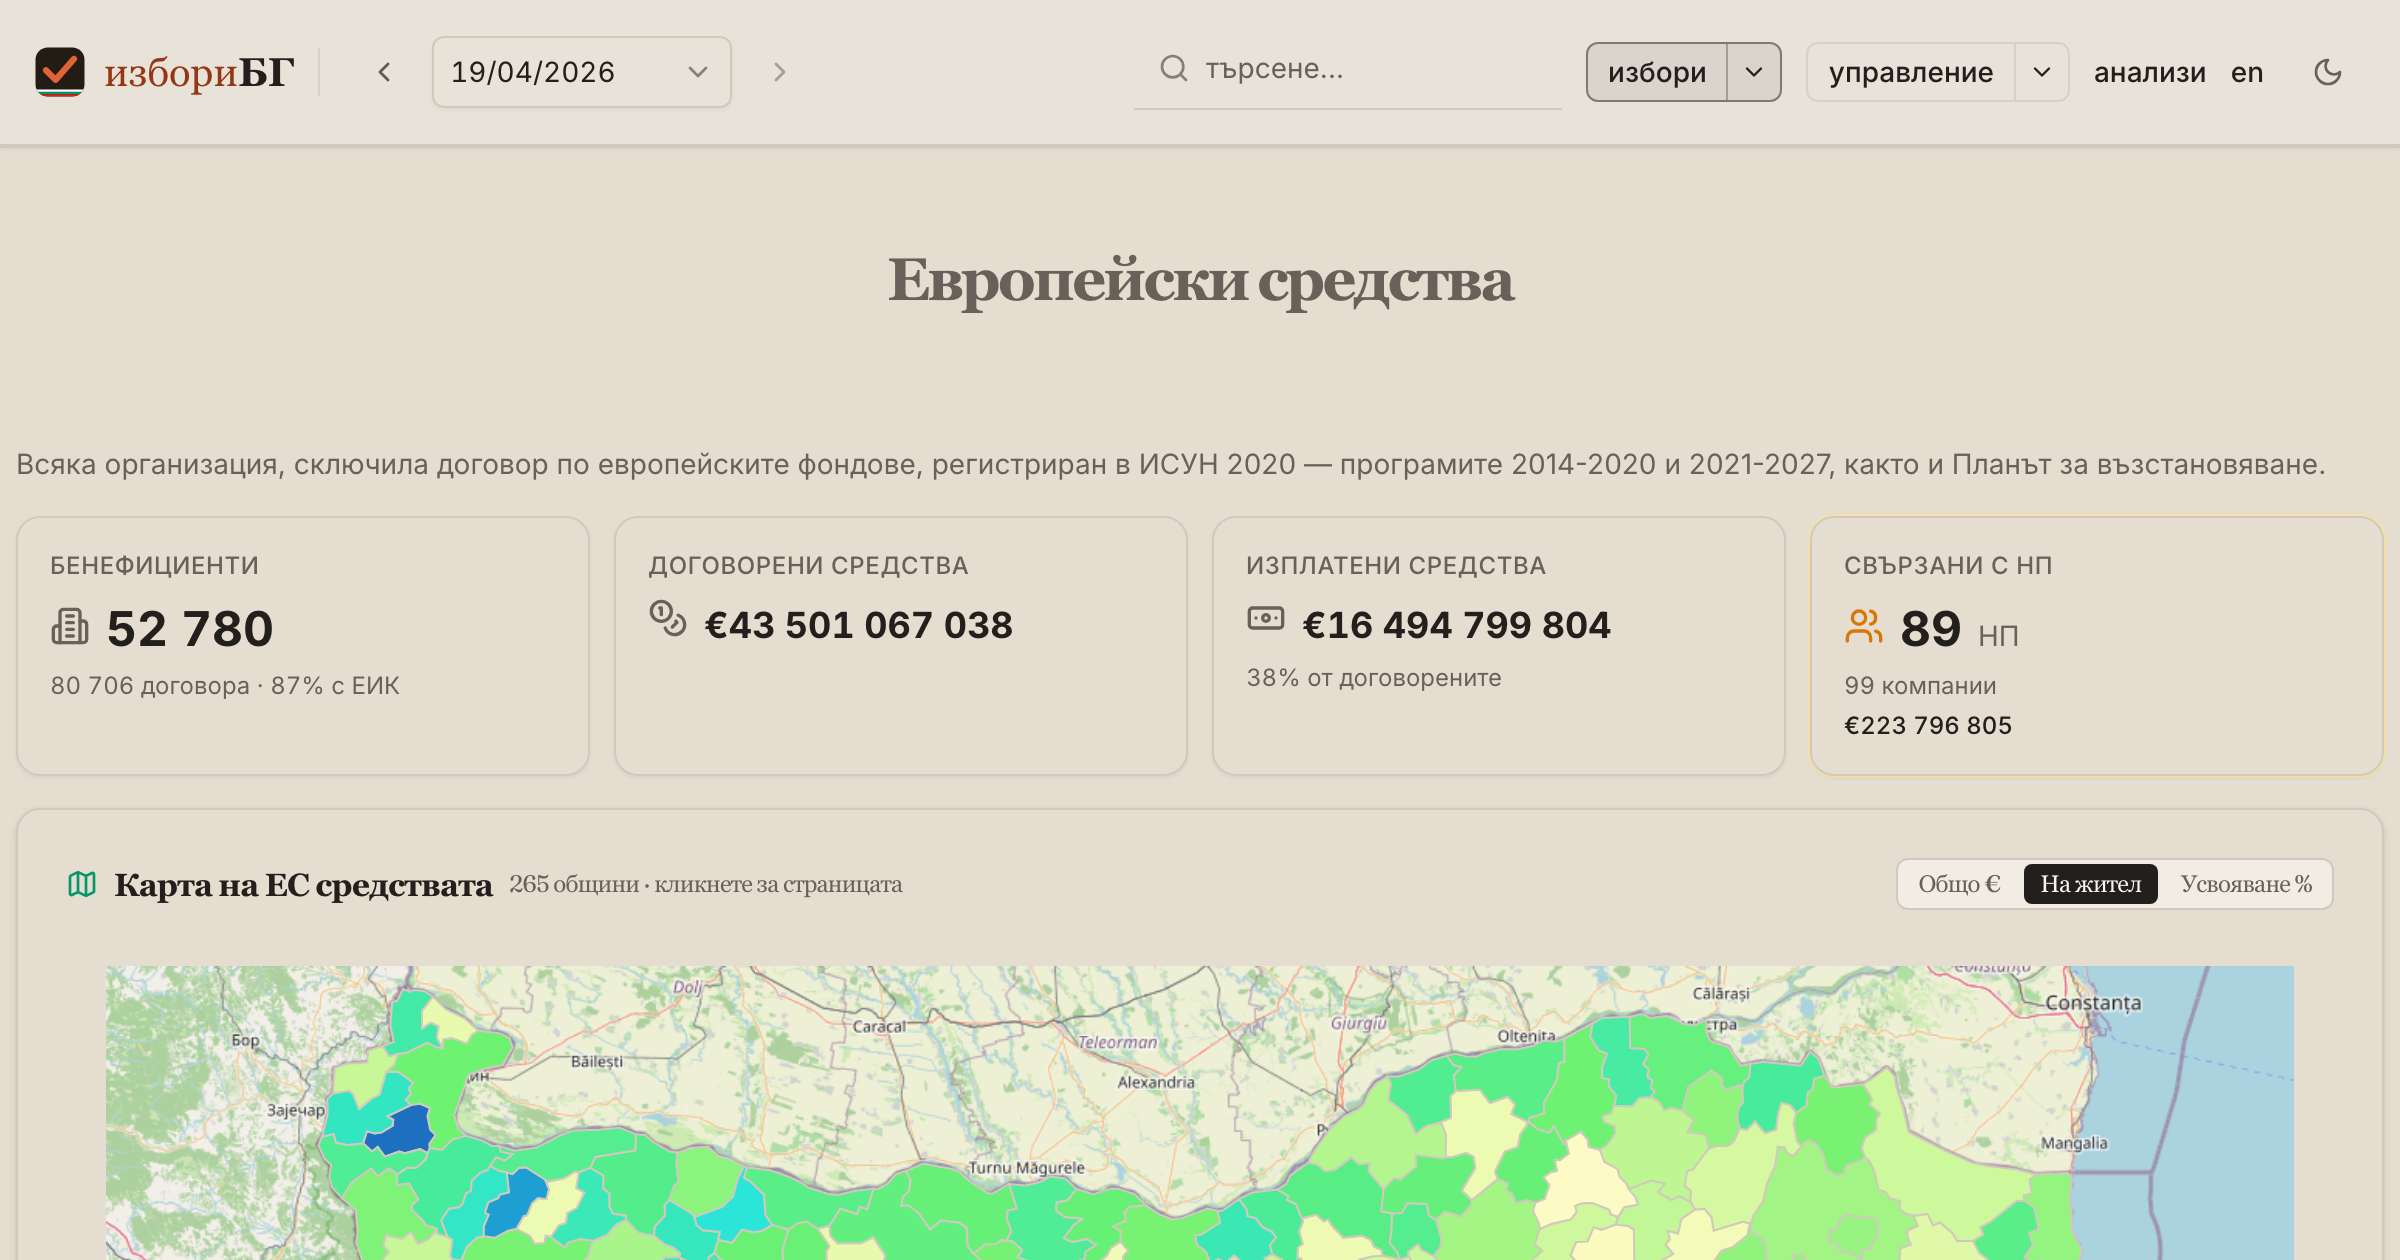
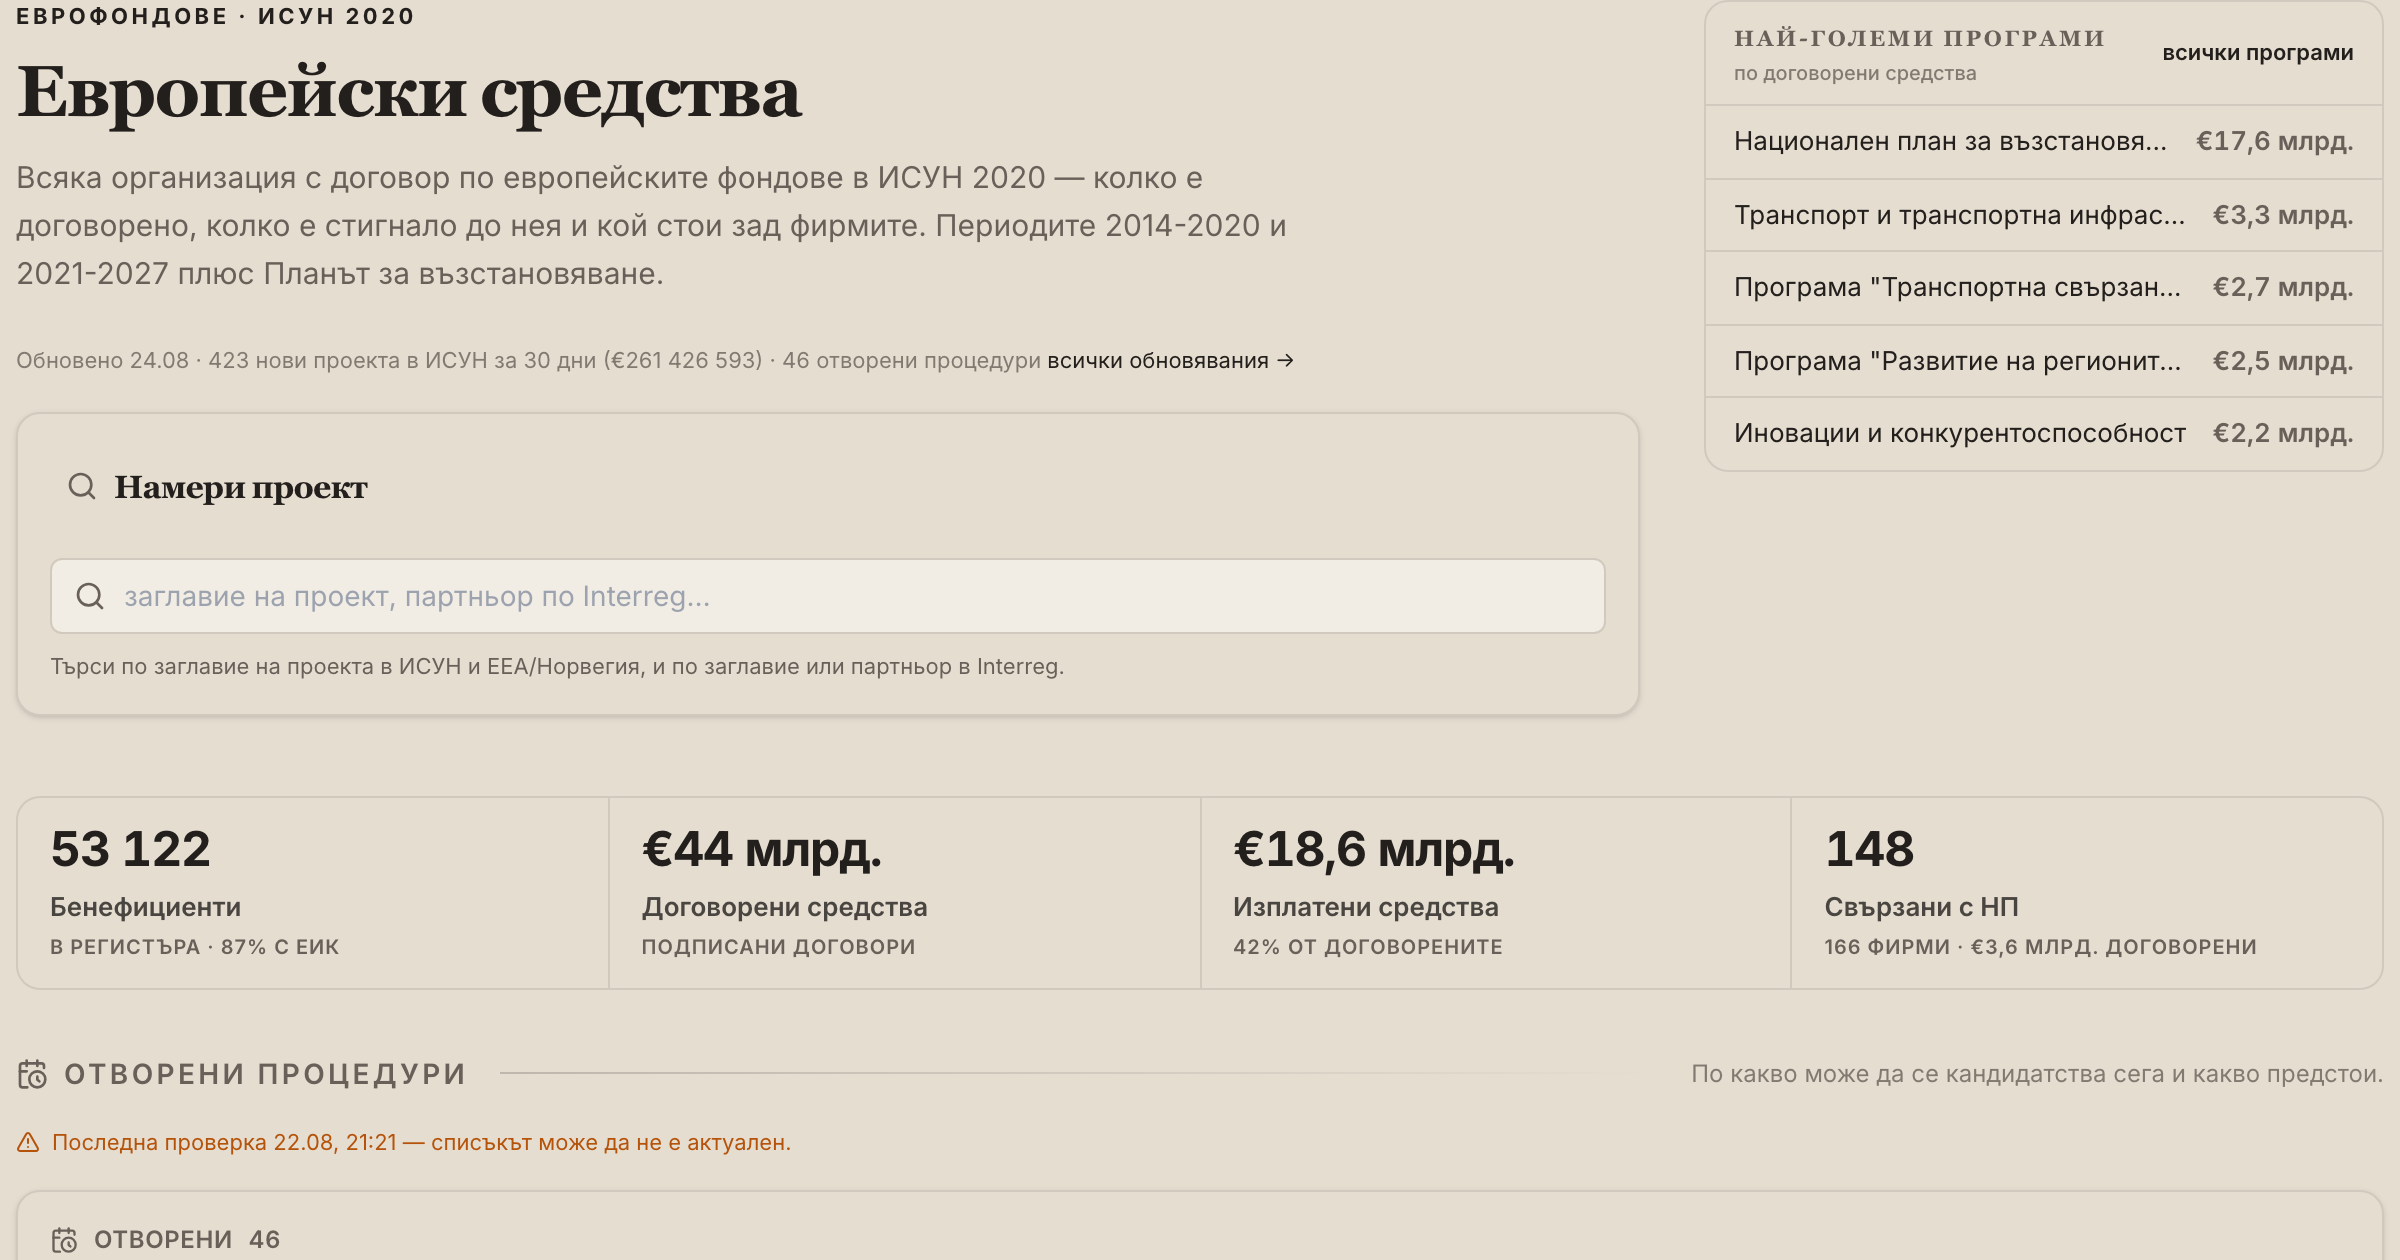
funds share card: one producer, anchored on the head, with the output gated

diff --git a/scripts/og/capture-screens.ts b/scripts/og/capture-screens.ts
@@ -292,6 +292,52 @@ const captures: Capture[] = [
     extraCss: "[data-og-chrome]{display:none!important;}",
   },
   {
+    slug: "funds",
+    routePath: "funds",
+    // MOVED HERE from scripts/og/screenshot_funds.ts, which is why this entry exists at all.
+    // That script clips {x:0, y:0} and hides no chrome, so the card it produced led with the
+    // nav bar, the election picker and the search box, and the page began below them. It had
+    // also not been re-shot since 2026-05-27, so it depicted a layout this module no longer
+    // has — a centred muted title, a buried StatCard strip and a choropleth — and every
+    // figure on it was stale: 52 780 beneficiaries against 53 122, €16.49bn paid against
+    // €18.58bn (11% low) and 89 MPs against 148 (40% low).
+    //
+    // `capture-screens.ts` drops the site chrome and anchors the clip, which is the whole
+    // difference. Same shape as its three sibling hubs: anchor the head, wait on the BAND's
+    // figures (the head mounts before the payload, so waiting on the container shoots a
+    // skeleton), clip at OG_CLIP_VIEWPORT.
+    // ⚠ BOTH KPI SOURCES, not just one — and /funds is the only one of the four hubs that
+    // needs this. `kpisFor` builds its band from TWO independent queries: `useFundsIndex`
+    // feeds cells 1 and 4, `useFundsHubStats` cells 2, 3 and every row of the aside. HubHead
+    // renders the real band as soon as EITHER lands, and both hooks document `null` as a
+    // legitimate ANSWER rather than an error, so a bare `.tabular-nums` is satisfied by a
+    // TWO-cell band — and the runner then overwrites a good card with a half-empty one and
+    // reports success. Measured: with `fund-payload?kind=index` nulled the bare selector
+    // resolved and a 2-cell card was written; this one times out, the capture fails, and the
+    // previous card survives, which is the right failure. The siblings are all-or-nothing
+    // from one hook, so they do not need the `:has()`.
+    //
+    // /funds/political is cell 4's destination (index); /funds/absorption is cell 3's
+    // (hubStats). Requiring one from each source is what makes the band provably whole.
+    waitFor:
+      '[data-hub-head]:has(a[href*="/funds/political"]):has(a[href*="/funds/absorption"]) .tabular-nums',
+    anchor: "[data-hub-head]",
+    viewport: OG_CLIP_VIEWPORT,
+    settleMs: 3000,
+    // ⚠ RE-SHOOT THIS AFTER AN OPEN-CALLS CRAWL. The head is ~495 px and the clip is 630, so
+    // ~135 px of whatever follows it is in frame — here the OpenCallsTile, whose first line is
+    // a TIMESTAMPED freshness notice. When the crawl is behind, that line turns amber and
+    // reads „Последна проверка <time> — списъкът може да не е актуален", and a card shot in
+    // that state carries the warning for as long as the card is served. It is true of the live
+    // page and false of a permanent artifact, which is the whole failure mode this file keeps
+    // finding.
+    //
+    // Suppressing it was considered and rejected twice over: hiding the notice alone leaves
+    // „ОТВОРЕНИ 46" with no freshness qualifier, which is exactly what OpenCallsTile's own
+    // invariant 3 forbids; and hiding the tile only pulls the next one into the same 135 px.
+    // Something always fills a short anchor's remainder, so the fix is a fresh crawl, not CSS.
+  },
+  {
     slug: "parliament",
     routePath: "parliament",
     // ANCHOR ON THE HEAD, not the tile grid. §5.3's rule for a hub: the head IS the page's
@@ -1165,6 +1211,9 @@ const captures: Capture[] = [
   // ---------------------------------------------------------------------------
 
   // --- /funds sub-pages -------------------------------------------------------
+  // (the /funds HUB card itself is the `funds` entry near the top of this table, beside its
+  //  three sibling hubs — they share a framing rule, which is a stronger grouping than the
+  //  module clustering this block follows.)
   {
     slug: "funds-places",
     routePath: "funds/places",

diff --git a/scripts/prerender/ogAndSitemapCoverage.test.ts b/scripts/prerender/ogAndSitemapCoverage.test.ts
@@ -840,11 +840,7 @@ describe("a hub's og capture anchors on its head", () => {
 
   /** Hubs whose card does not yet frame the head, with the reason. A real debt, named so the
    *  list shrinks rather than the rule. */
-  const NOT_YET: Record<string, string> = {
-    funds:
-      "produced by scripts/og/screenshot_funds.ts, which clips {0,0} and hides no chrome — " +
-      "needs moving into capture-screens.ts before it can anchor on anything",
-  };
+  const NOT_YET: Record<string, string> = {};
 
   /** One capture entry's text, by slug. */
   const entryFor = (slug: string): string | null => {
@@ -877,6 +873,7 @@ describe("a hub's og capture anchors on its head", () => {
   });
 
   it("a hub's capture clips at OG_CLIP_VIEWPORT, so the card is not silently shrunk", () => {
+    const checked: string[] = [];
     // Playwright CLAMPS the clip to the viewport, so a width below OG_W (1200) emits a
     // smaller card with nothing failing — measured, a hand-picked 1180 gave 2360×1260 where
     // the corpus norm is 2400, and two of these three had been 2400 the day before.
@@ -887,6 +884,39 @@ describe("a hub's og capture anchors on its head", () => {
         /viewport:\s*OG_CLIP_VIEWPORT/.test(entry),
         `${slug}: uses a hand-written viewport instead of OG_CLIP_VIEWPORT`,
       ).toBe(true);
+      checked.push(slug);
+    }
+    // The same floor its sibling above carries. Without it, an exemption list that grew to
+    // cover every hub would leave this clause asserting nothing while still reading green —
+    // and `NOT_YET` is empty today, which is exactly when the floor is free to add.
+    expect(checked.length, "no hub viewport was checked").toBeGreaterThan(1);
+  });
+
+  it("every hub card is the corpus's size, read from the PNG itself", () => {
+    // ⚠ THE CLAUSES ABOVE READ THE CONFIG; this one reads the OUTPUT. That gap shipped a
+    // defect earlier the same day: a hand-picked `viewport.width: 1180` is below OG_W (1200),
+    // Playwright CLAMPS the clip to the viewport, and three cards were written at 2360×1260
+    // against a corpus norm of 2400 — with the config looking deliberate and every
+    // config-reading assertion green.
+    //
+    // PNG dimensions come from the IHDR chunk: bytes 16-23 of the file, big-endian width then
+    // height. No image library needed, and nothing here decodes pixels — this asserts the
+    // frame, not the picture. Looking at the picture is still a human step (§10).
+    const dims = (rel: string) => {
+      const b = fs.readFileSync(path.join(REPO, rel));
+      return { w: b.readUInt32BE(16), h: b.readUInt32BE(20) };
+    };
+    for (const slug of Object.keys(HUB_CAPTURES)) {
+      const rel = `public/og/${slug}.png`;
+      expect(
+        fs.existsSync(path.join(REPO, rel)),
+        `${rel} is referenced by a capture entry but not on disk`,
+      ).toBe(true);
+      const { w, h } = dims(rel);
+      expect(
+        `${w}x${h}`,
+        `${rel} is ${w}x${h} — a viewport narrower than OG_W silently clamps the clip`,
+      ).toBe("2400x1260");
     }
   });
 
@@ -916,6 +946,10 @@ describe("a hub's og capture anchors on its head", () => {
         /<HubHead\b/.test(stripJsxComments(read(file))),
         `${slug} is mapped to ${file}, which no longer renders a HubHead`,
       ).toBe(true);
+    // ⚠ EMPTY TODAY, so this loop runs zero times — deliberately kept rather than deleted.
+    // `NOT_YET` is the documented mechanism for the next hub that cannot yet frame its head,
+    // and a typed map with a live validation loop is what stops the next person adding an
+    // exemption with no reason. If it is still empty a year from now, delete both.
     for (const slug of Object.keys(NOT_YET)) {
       expect(
         HUB_CAPTURES,

diff --git a/scripts/og/screenshot_funds.ts b/scripts/og/screenshot_funds.ts
@@ -5,9 +5,19 @@
 //
 // Run with the dev server up:
 //   npm run dev    # in another shell
-//   npx tsx scripts/og/screenshot_funds.ts
+//   npx tsx scripts/og/screenshot_funds.ts            # all four
+//   npx tsx scripts/og/screenshot_funds.ts funds-political   # one, by stem
 //
-// Output: public/og/funds.png + per-subpage variants.
+// Output: the per-subpage variants ONLY.
+//
+// ⚠ `funds.png` — the module's own hub card — is NOT produced here any more. It moved to
+// scripts/og/capture-screens.ts, which hides the site chrome and anchors the clip; this
+// script clips {x:0, y:0}, so its card led with the nav bar and the page started below the
+// fold. See that file's `slug: "funds"` entry for the measurements.
+//
+// The same objection applies to the four specs still below. They are left here because each
+// needs its own framing decision against its current page, not because this script is the
+// right producer for them.
 
 import fs from "fs";
 import path from "path";
@@ -38,13 +48,6 @@ interface Spec {
 }
 
 const specs: Spec[] = [
-  {
-    route: "/funds?elections=2026_04_19",
-    file: "funds.png",
-    // Wait for the choropleth tile + KPI strip.
-    waitFor: 'h1, [class*="text-base"]:has(svg)',
-    settleMs: 1500,
-  },
   {
     route: "/funds/political?elections=2026_04_19",
     file: "funds-political.png",
